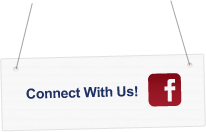
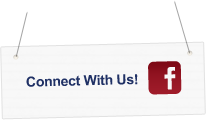
had to correct social media image and style according to make facebook link work properly

diff --git a/template/templates/fritopies/css/styles.css b/template/templates/fritopies/css/styles.css
@@ -20,9 +20,9 @@
 
 #socialmedia {
 	position: absolute;
-	right: 73px;
-	top: 100px;
-	z-index: 3;
+	right: 77px;
+	top: 90px;
+	z-index: 5;
 }
 
 #heading {
